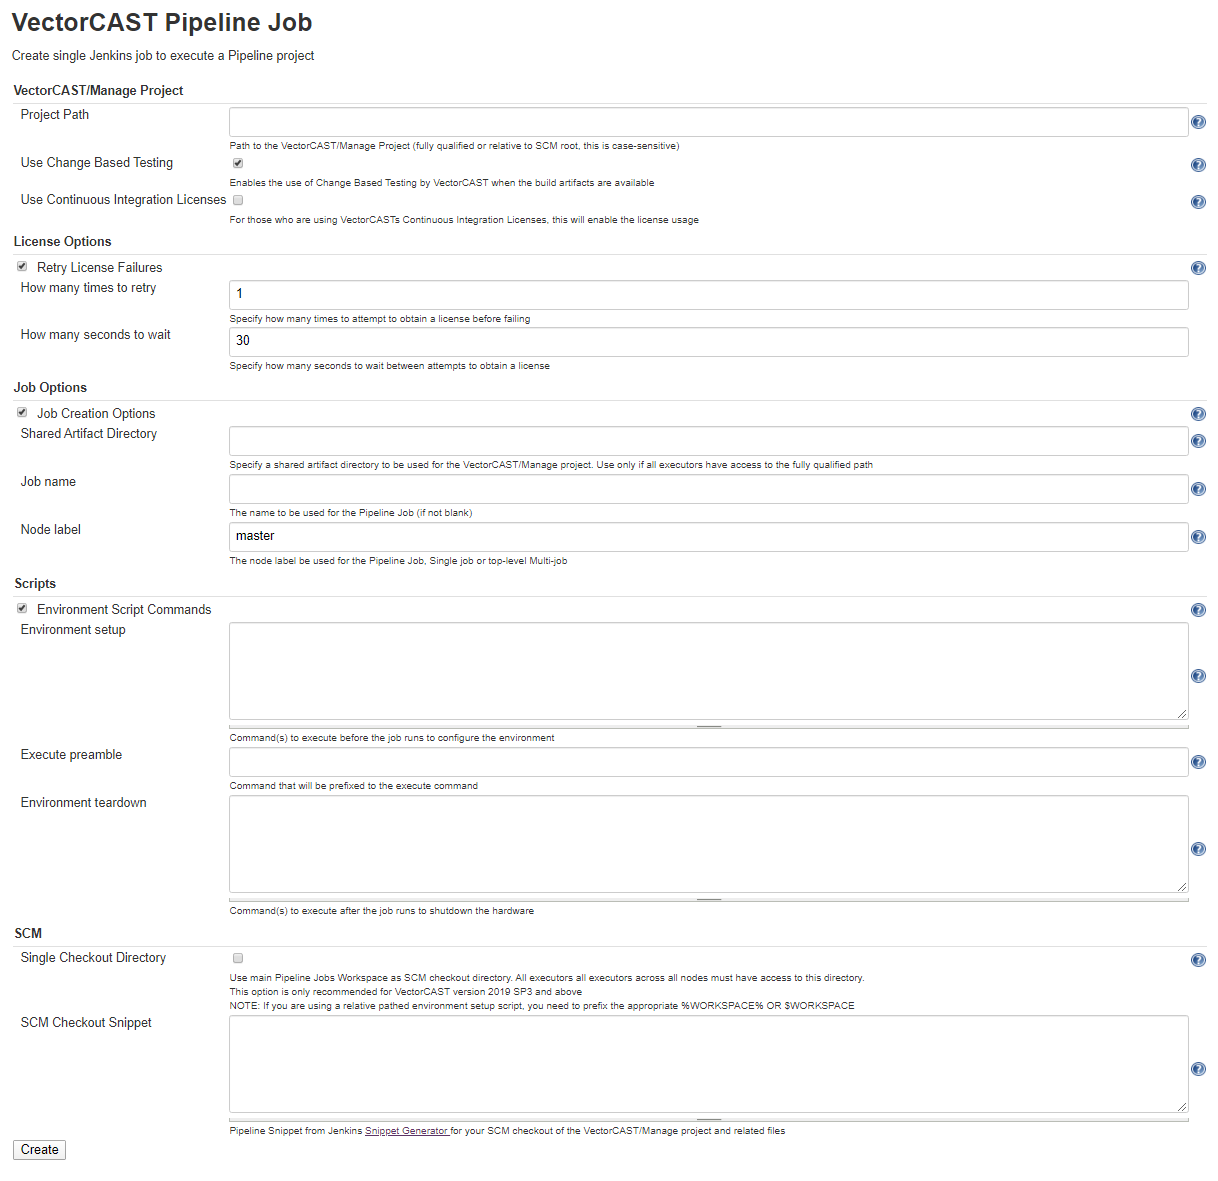
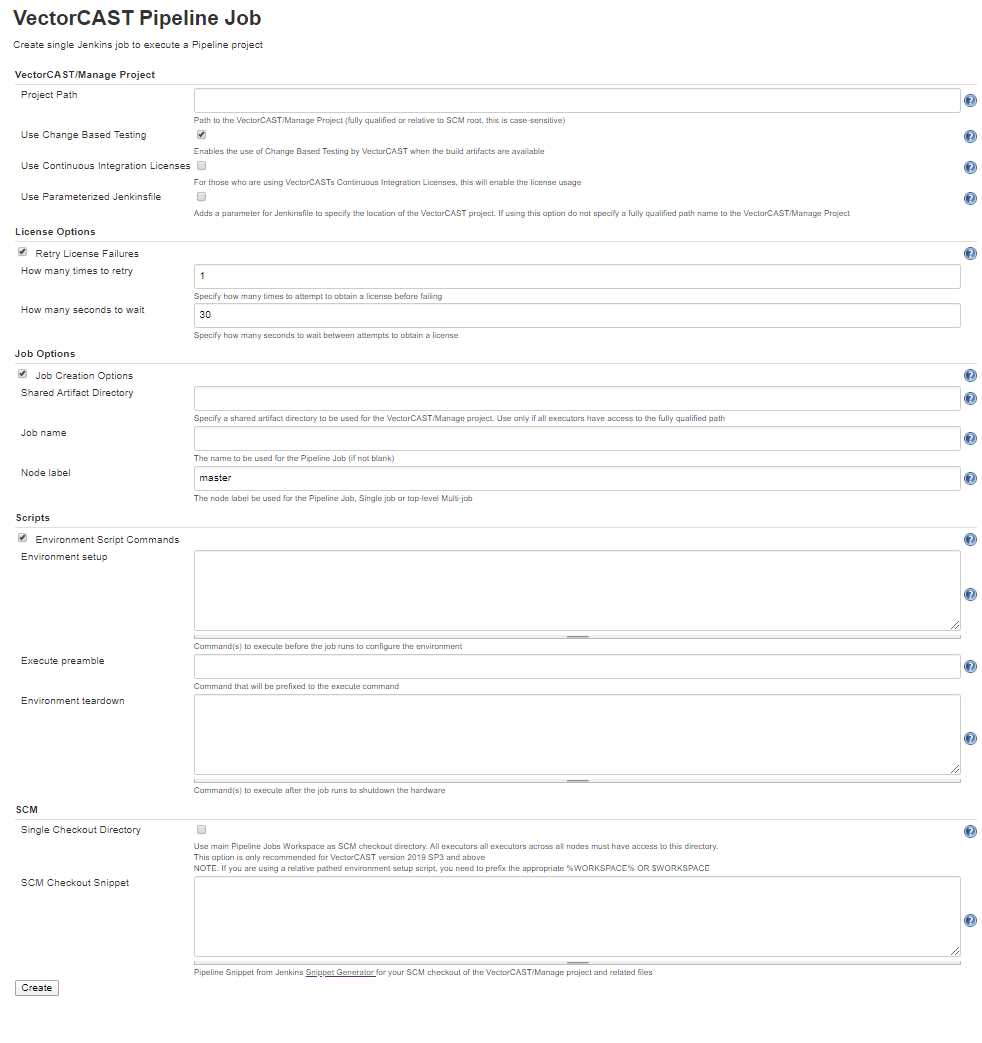
BUGZID 90767 - add parameter to pipline job

diff --git a/src/main/java/com/vectorcast/plugins/vectorcastexecution/job/NewPipelineJob.java b/src/main/java/com/vectorcast/plugins/vectorcastexecution/job/NewPipelineJob.java
@@ -87,6 +87,8 @@ public class NewPipelineJob extends BaseJob {
     private boolean useCILicenses;
     
     private boolean useCBT;
+
+    private boolean useParameters;
     
     private String debugJSON;
 
@@ -122,6 +124,7 @@ public class NewPipelineJob extends BaseJob {
         singleCheckout = json.optBoolean("singleCheckout", false);
         useCILicenses  = json.optBoolean("useCILicenses", false);
         useCBT  = json.optBoolean("useCBT", true);
+        useParameters  = json.optBoolean("useParameters", true);
         
         // remove the win/linux options since there's no platform any more 
         environmentSetup = json.optString("environmentSetup", null);
@@ -279,7 +282,16 @@ public class NewPipelineJob extends BaseJob {
 	 */
 	private File writeConfigFile() throws IOException {
 
-		InputStream in = getClass().getResourceAsStream("/scripts/config.xml");
+        
+		InputStream in;
+
+        if (useParameters) {
+            in = getClass().getResourceAsStream("/scripts/config_parameters.xml");
+        } else {
+            in = getClass().getResourceAsStream("/scripts/config.xml");
+        }
+        
+		//InputStream in = getClass().getResourceAsStream("/scripts/config_parameters.xml");
 		BufferedReader br = new BufferedReader(new InputStreamReader(in));
 		File configFile = File.createTempFile("config_temp", ".xml");
 
@@ -363,6 +375,12 @@ public class NewPipelineJob extends BaseJob {
             incremental = "\"--incremental\"";
         }
         
+        String VC_Proj_Prefix = "";
+        
+        if (useParameters) {
+            VC_Proj_Prefix = "${VCAST_PROJECT_DIR}/";
+        }
+        
         String topOfJenkinsfile = "// ===============================================================\n" + 
             "// \n" +  
             "// Auto-generated script by VectorCAST Execution Plug-in \n" +  
@@ -372,7 +390,7 @@ public class NewPipelineJob extends BaseJob {
             "//\n" +  
             "// ===============================================================\n" +  
             "\n" +  
-            "VC_Manage_Project     = \'" + this.getManageProjectName() + "\'\n" + 
+            "VC_Manage_Project     = \"" + VC_Proj_Prefix + "\" + \'" + this.getManageProjectName() + "\'\n" + 
             "VC_EnvSetup        = '''" + setup + "'''\n" + 
             "VC_Build_Preamble  = \"" + preamble + "\"\n" + 
             "VC_EnvTeardown     = '''" + teardown + "'''\n" + 

diff --git a/README.md b/README.md
@@ -77,6 +77,10 @@ For users with Continuous Integration Licneses, you will be able to access those
 checking the Use Continuous Integration License checkbox.  If you do not have 
 Continuous Integration License, do not check this box as you will encounter licensing errors.
 
+If the user wishes to call the Jenkins job from another Pipeline job, check the box to 
+parameterize the Jenkinsfile.  This will add a parameter to the pipeline job (VCAST_PROJECT_DIR) 
+that will be used by the VectorCAST pipeline job to locate the VectorCAST/Manage project.  
+
 Additionally, if a shared artifact directory is specified, VectorCAST/Manage
 will execute jobs independently, but have a central location for storing
 the build artifacts.  This option can be used to accelerate testing by use
